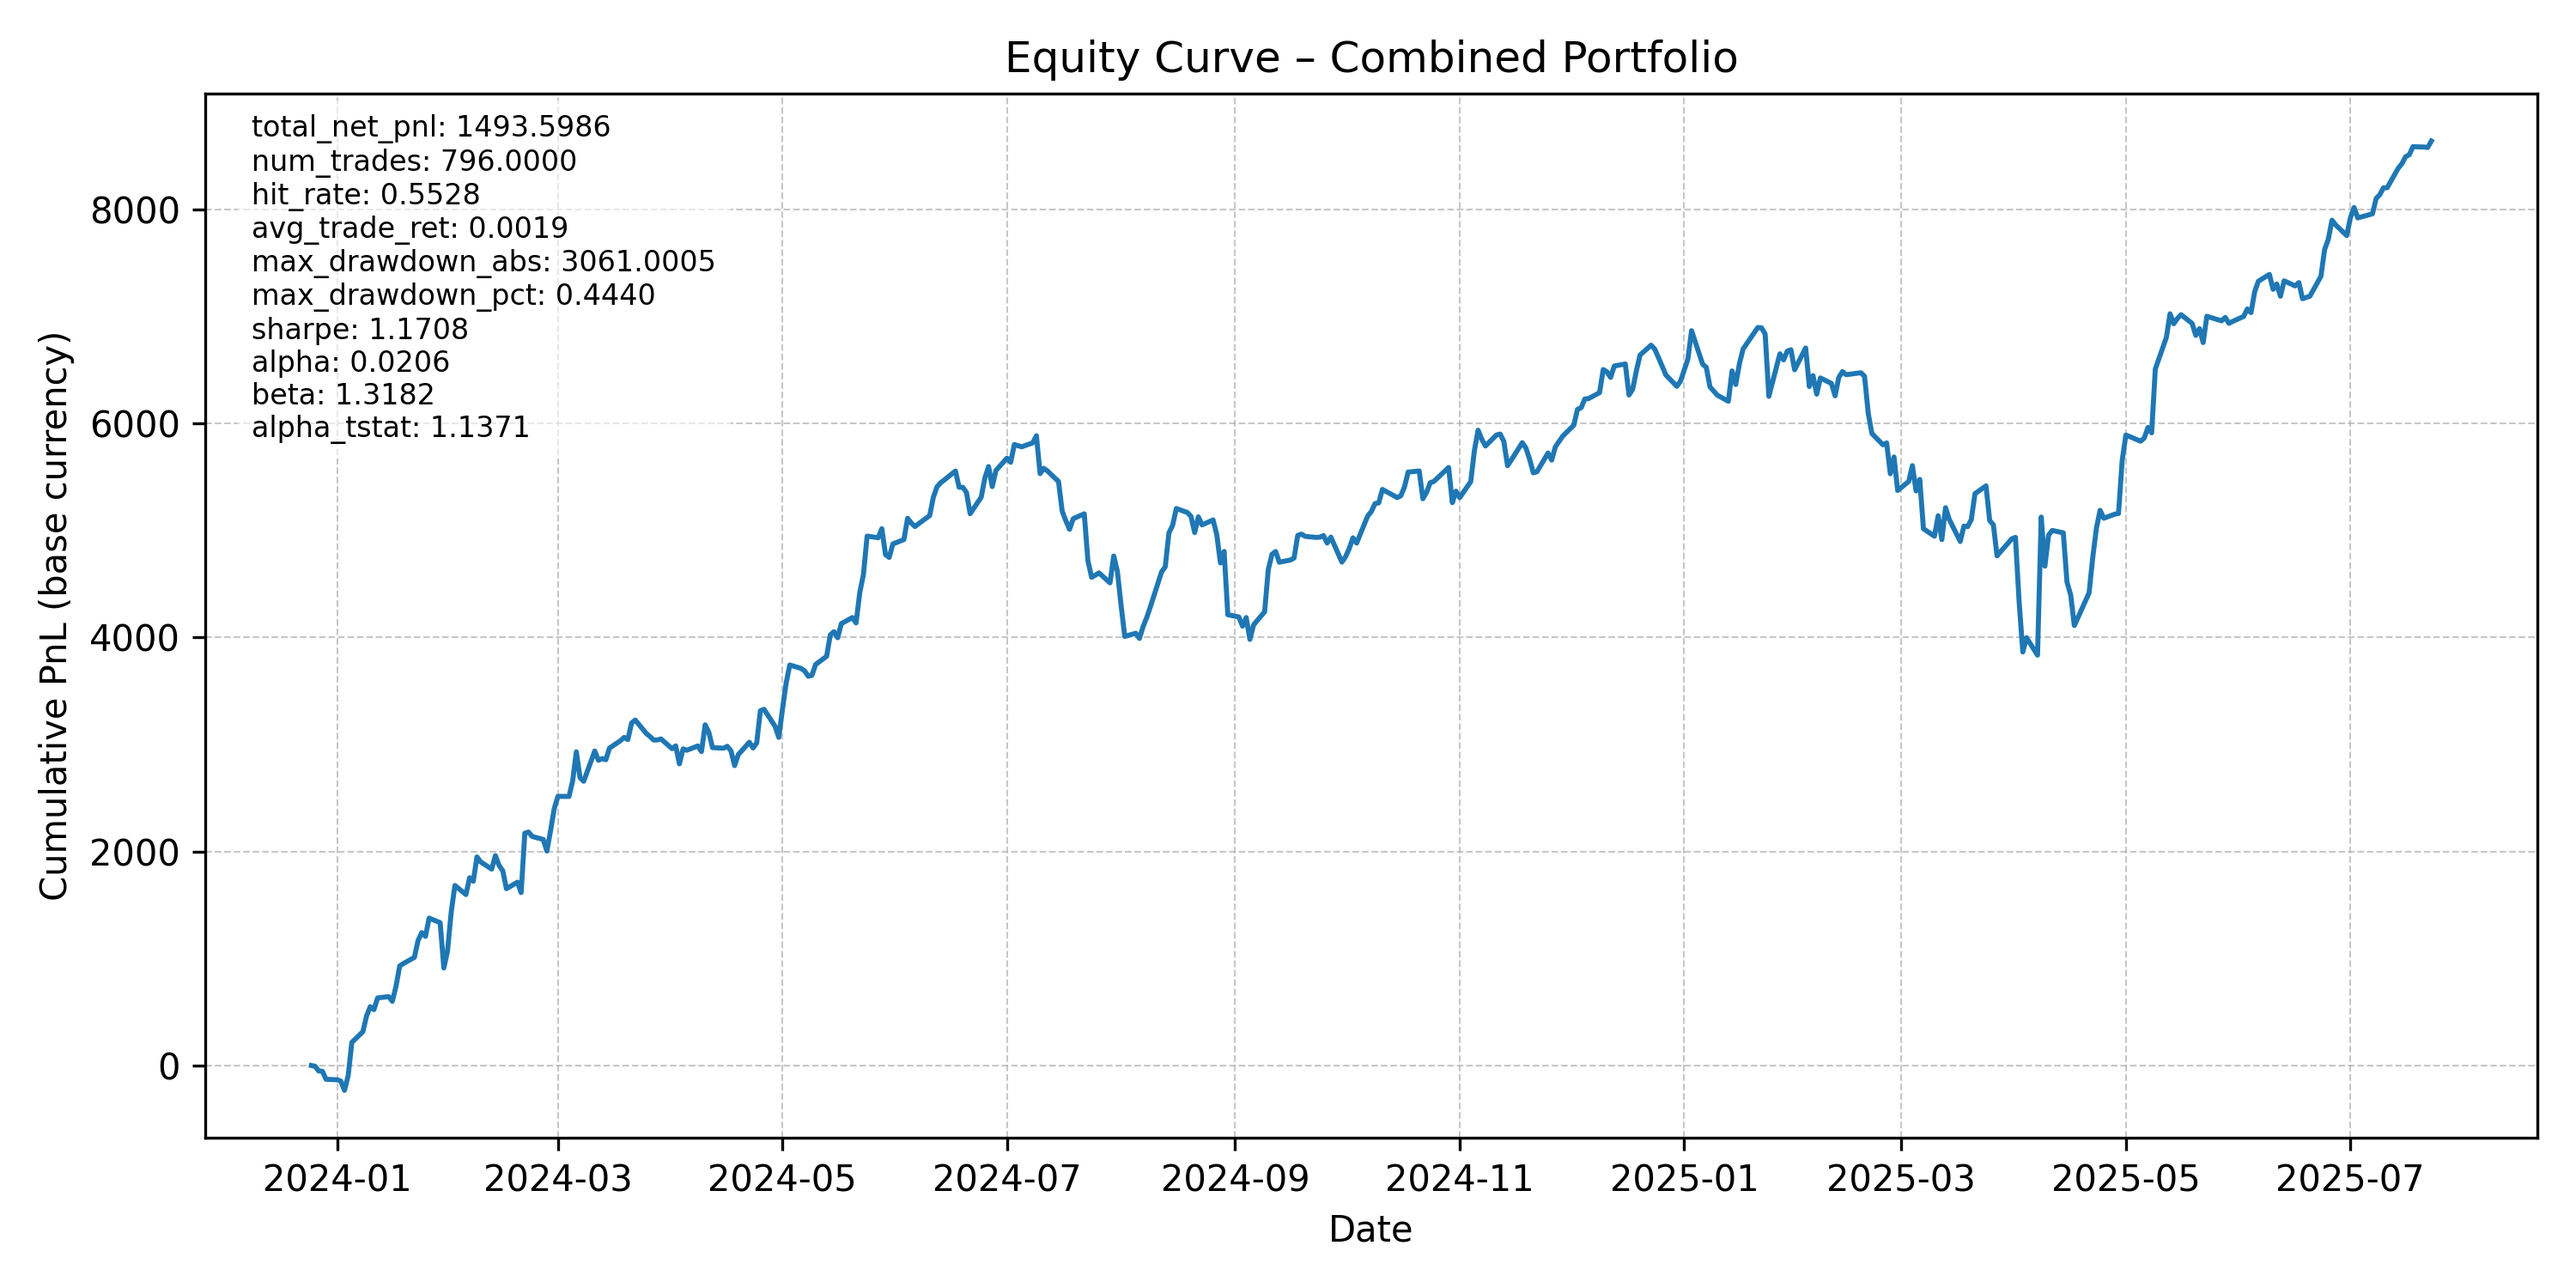
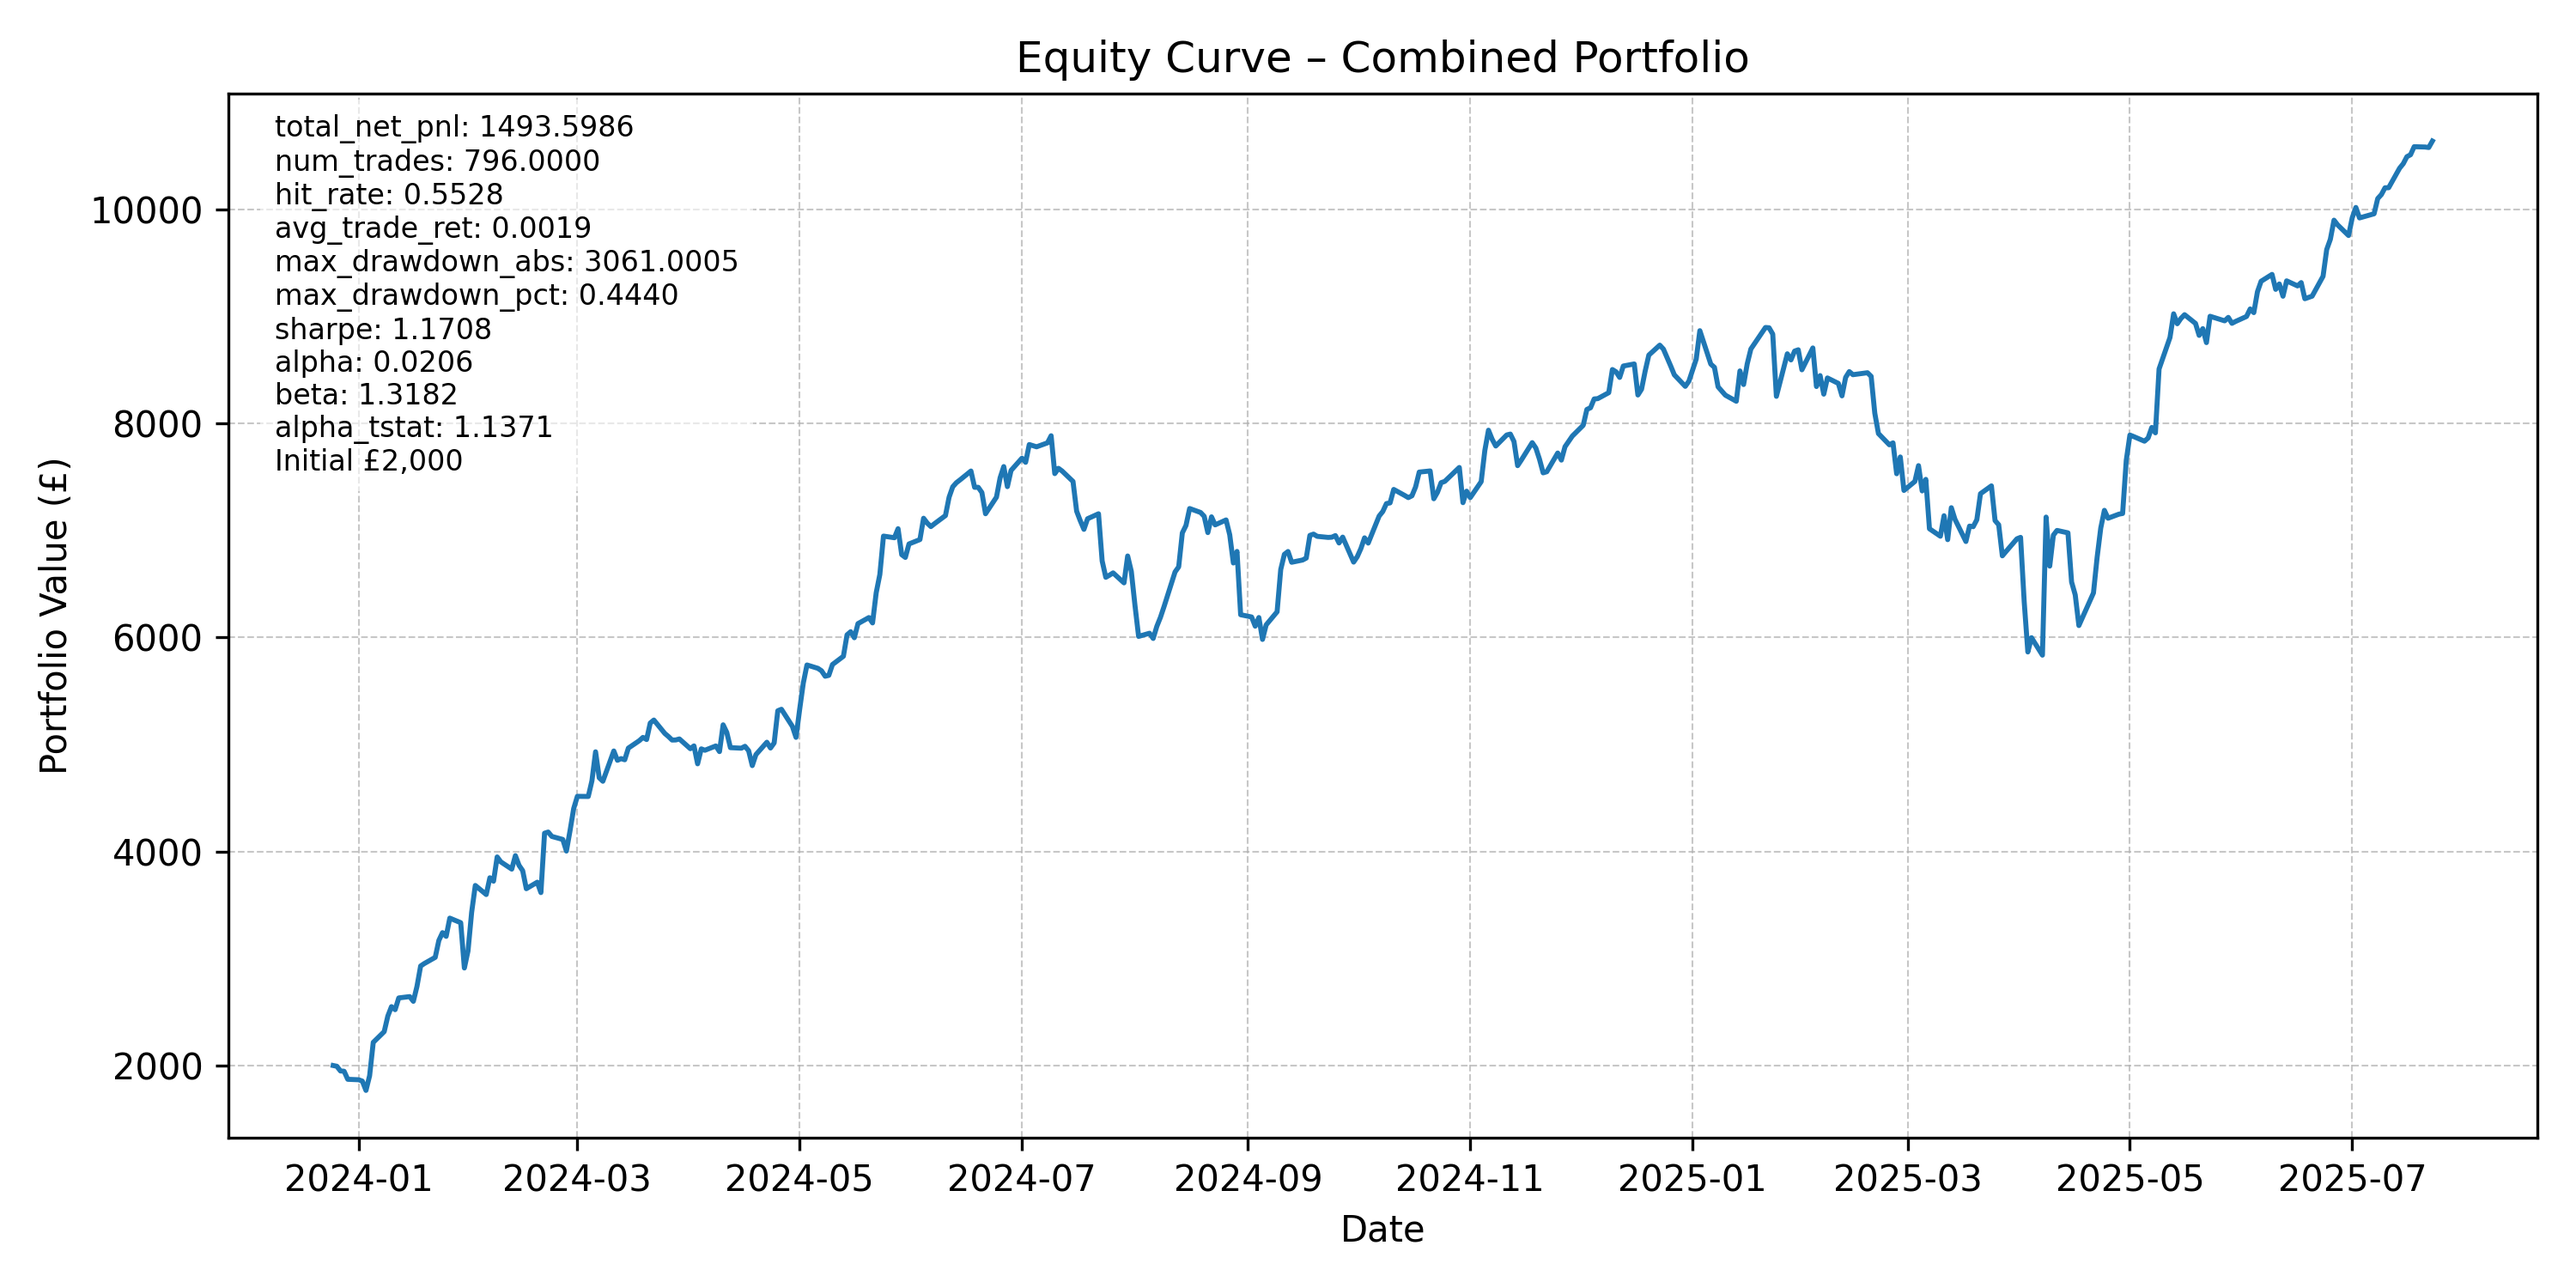
Added a toggle to show either % returns of actual returns from real value

diff --git a/Equity_Factor_Alpha/src/plotting.py b/Equity_Factor_Alpha/src/plotting.py
@@ -51,6 +51,8 @@ def plot_equity(
     show: bool = True,
     save_path: str | Path | None = None,
     metrics: dict[str, float] | None = None,
+    initial_capital: float | None = None,
+    scale: str = "currency",
 ) -> plt.Axes:
     """
     Plot an equity curve with sensible defaults.
@@ -72,6 +74,11 @@ def plot_equity(
         recommended for light file sizes.
     metrics
         Optional dictionary of metric names and values to display on the plot.
+    initial_capital
+        Starting portfolio capital in the same currency as *equity*. Required when ``scale="pct"``.
+    scale
+        "currency" plots portfolio value in £ starting at *initial_capital* (if provided) or cumulative PnL otherwise.
+        "pct" plots cumulative percentage return = 100 × ((initial_capital + PnL) / initial_capital − 1).
 
     Returns
     -------
@@ -86,17 +93,38 @@ def plot_equity(
     if ax is None:
         fig, ax = plt.subplots(figsize=figsize)
         created_fig = True
-    ax.plot(ser.index, ser.values, linewidth=1.4)
+
+    # Transform depending on requested scale
+    if scale == "pct":
+        if initial_capital is None:
+            raise ValueError("initial_capital must be provided when scale='pct'")
+        ser_plot = 100.0 * ((initial_capital + ser) / initial_capital - 1.0)
+        ylabel = "Cumulative Return (%)"
+    elif scale == "currency":
+        if initial_capital is not None:
+            ser_plot = initial_capital + ser
+            ylabel = "Portfolio Value (£)"
+        else:
+            ser_plot = ser
+            ylabel = "Cumulative PnL (base currency)"
+    else:
+        raise ValueError("scale must be 'pct' or 'currency'")
+
+    ax.plot(ser_plot.index, ser_plot.values, linewidth=1.4)
     ax.set_title(title)
     ax.set_xlabel("Date")
-    ax.set_ylabel("Cumulative PnL (base currency)")
+    ax.set_ylabel(ylabel)
     ax.grid(True, linestyle="--", linewidth=0.5, alpha=0.7)
+    lines = []
     if metrics is not None:
-        text = "\n".join(f"{k}: {v:.4f}" for k, v in metrics.items() if pd.notna(v))
+        lines.extend(f"{k}: {v:.4f}" for k, v in metrics.items() if pd.notna(v))
+    if scale == "currency" and initial_capital is not None:
+        lines.append(f"Initial £{initial_capital:,.0f}")
+    if lines:
         ax.text(
             0.02,
             0.98,
-            text,
+            "\n".join(lines),
             transform=ax.transAxes,
             va="top",
             ha="left",

diff --git a/Equity_Factor_Alpha/run_efa.py b/Equity_Factor_Alpha/run_efa.py
@@ -162,12 +162,14 @@ def main(args: argparse.Namespace) -> None:
         risk_free_rate=p["backtest"].get("risk_free_rate", 0.0),
         hold_days=p["backtest"]["hold_days"],
         top_n=p["backtest"]["top_n"],
+        notional=p["backtest"]["notional"],
         fee_bps=p["backtest"]["fee_bps"],
     )
 
     equity = results["equity"]
     trades = results["trades"]
     metrics = results["metrics"]
+    initial_capital = results.get("initial_capital")
     logger.info("Back‑test metrics: %s", metrics)
     logger.info(
         "Alpha %.4f (t=%.2f) | Beta %.2f | Sharpe %.2f",
@@ -192,6 +194,8 @@ def main(args: argparse.Namespace) -> None:
             show=args.show_plots,
             save_path=save_path,
             metrics=metrics,
+            initial_capital=initial_capital,
+            scale=args.plot_scale,
         )
     if args.show_plots or args.save_plots:
         scatter_path = (out_dir / "alpha_beta_scatter.png") if args.save_plots else None
@@ -229,5 +233,11 @@ if __name__ == "__main__":
         "--save-plots",
         action="store_true",
         help="Save equity curve plot to the outputs directory (PNG).",
+    )
+    parser.add_argument(
+        "--plot-scale",
+        choices=["currency", "pct"],
+        default="pct",
+        help="Choose 'currency' to plot portfolio value in £ starting at the initial capital, or 'pct' for percentage return (default).",
     )
     main(parser.parse_args())

diff --git a/Equity_Factor_Alpha/src/backtest.py b/Equity_Factor_Alpha/src/backtest.py
@@ -227,4 +227,11 @@ def run_backtest(
             "alpha_tstat": alpha_t,
         }
 
-    return {"trades": trades_df, "equity": equity_series, "metrics": metrics}
+    initial_capital = top_n * notional
+
+    return {
+        "trades": trades_df,
+        "equity": equity_series,
+        "metrics": metrics,
+        "initial_capital": initial_capital,
+    }
